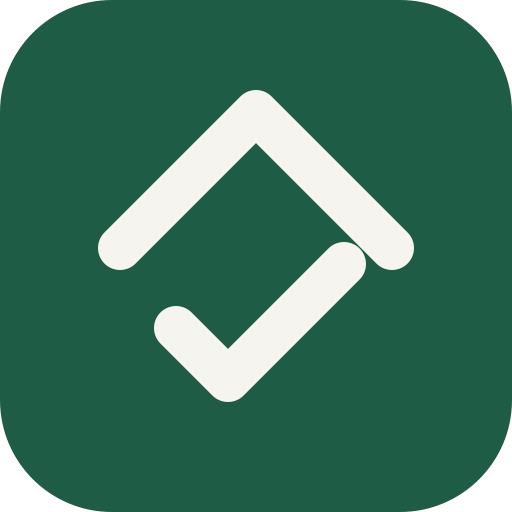
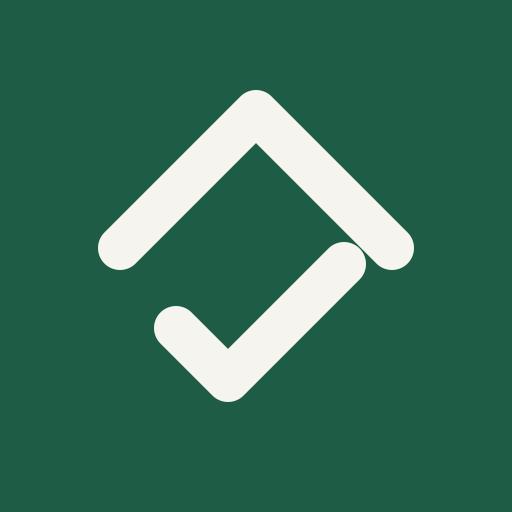
fix: contour des champs lisible, couleurs oubliées, spec des icônes étendue aux helpers, icône PNG pleine

diff --git a/app/assets/stylesheets/application.tailwind.css b/app/assets/stylesheets/application.tailwind.css
@@ -1,12 +1,18 @@
 @import "tailwindcss";
 
+/* Classes come from app/ only: docs/ and .reviews/ hold mockups and reports with old colors. */
+@source not "../../../docs";
+@source not "../../../.reviews";
+
 /* "Carnet de maison" palette (docs/ux/revue-ux.md, Identité): classes such as bg-paper, text-ink, bg-action.
-   One action color (green); domain colors only for small marks and icons; brick red only for what must not be missed. */
+   One action color (green); domain colors only for small marks and icons; brick red only for what must not
+   be missed. `line` separates; `field` outlines what can be filled or chosen (3:1 contrast, WCAG 1.4.11). */
 @theme {
   --color-paper: #f6f4ef;
   --color-surface: #ffffff;
   --color-subtle: #edeae2;
   --color-line: #e4e0d6;
+  --color-field: #8a8578;
   --color-ink: #1d2521;
   --color-muted: #5f665f;
   --color-action: #1f5c46;

diff --git a/spec/components/icon_component_spec.rb b/spec/components/icon_component_spec.rb
@@ -22,11 +22,15 @@ RSpec.describe IconComponent, type: :component do
     expect { described_class.new(:unicorn) }.to raise_error(ArgumentError, /Unknown icon :unicorn/)
   end
 
-  it "uses only icons that exist" do
-    used = Rails.root.glob("app/{views,components}/**/*.{erb,rb}").flat_map do |file|
-      File.read(file).scan(/IconComponent\.new\(:([a-z_-]+)|icon\(:([a-z_-]+)/).flatten.compact
+  it "uses only icons that exist, in the views and in the icon tables of the helpers" do
+    used = Rails.root.glob("app/{views,components,helpers}/**/*.{erb,rb}").flat_map do |file|
+      # icon(:name), heading_with_icon(:name, …) and icon(condition ? :one : :other)
+      call = /(?:IconComponent\.new|\bicon|heading_with_icon)\((?:[^,()]*\? )?:([a-z_]+)(?: : :([a-z_]+))?/
+      File.read(file).scan(call).flatten.compact
     end
+    used += ApplicationHelper::EXPOSURE_ICONS.values + ApplicationHelper::HEALTH_ICONS.values.map(&:first)
 
-    expect(used.map { |name| name.tr("_", "-") }.uniq - described_class::SHAPES.keys).to be_empty
+    expect(used.map { |name| name.to_s.tr("_", "-") }.uniq - described_class::SHAPES.keys).to be_empty
+    expect(used.map(&:to_s)).to include("droplet", "check", "triangle_alert")
   end
 end

diff --git a/spec/system/house_spec.rb b/spec/system/house_spec.rb
@@ -25,20 +25,20 @@ RSpec.describe "My house", type: :system do
     click_on "Ajouter"
 
     expect(page).to have_content("Emplacement « Terrasse » ajouté.")
-    expect(page).to have_content("Mi-ombre · abrité du vent")
+    expect(page).to have_content("Mi-ombre · abrité du vent", normalize_ws: true)
 
     lemon = create(:plant, household: Household.sole, location: Location.find_by!(name: "Terrasse"), name: "Citronnier")
     refresh
     click_on "Supprimer l'emplacement « Terrasse »"
     within("dialog", text: "Sa plante restera, sans emplacement.") { click_on "Revenir" }
     expect(page).to have_no_css("dialog[open]")
-    expect(page).to have_content("Mi-ombre · abrité du vent")
+    expect(page).to have_content("Mi-ombre · abrité du vent", normalize_ws: true)
 
     click_on "Supprimer l'emplacement « Terrasse »"
     within("dialog", text: "Supprimer l'emplacement « Terrasse » ?") { click_on "Supprimer" }
 
     expect(page).to have_content("Emplacement « Terrasse » supprimé.")
-    expect(page).to have_no_content("Mi-ombre · abrité du vent")
+    expect(page).to have_no_content("Mi-ombre · abrité du vent", normalize_ws: true)
     expect(lemon.reload.location).to be_nil
   end
 end

diff --git a/app/helpers/application_helper.rb b/app/helpers/application_helper.rb
@@ -30,7 +30,7 @@ module ApplicationHelper
   # "← …" link at the top of a page, for the browser only: in the Android app, the native top bar and the system
   # back already go back, and a web link would push a new screen instead of going back.
   def back_link_to(text, url)
-    link_to(text, url, class: "text-sm text-stone-500 underline") unless hotwire_native_app?
+    link_to(text, url, class: "text-sm text-muted underline") unless hotwire_native_app?
   end
 
   # Form data for a confirmed action: the message, the label of the confirm button (the action itself, not

diff --git a/config/environments/development.rb b/config/environments/development.rb
@@ -1,6 +1,9 @@
 require "active_support/core_ext/integer/time"
 
 Rails.application.configure do
+  # IconComponent reads app/assets/images/icons when it loads: reload it when an icon file is added.
+  config.watchable_dirs["app/assets/images/icons"] = [ :svg ]
+
   # Settings specified here will take precedence over those in config/application.rb.
 
   # Make code changes take effect immediately without server restart.

diff --git a/docs/decisions/0013-identite-visuelle-et-icones.md b/docs/decisions/0013-identite-visuelle-et-icones.md
@@ -12,7 +12,7 @@ a validé la palette « carnet de maison » et le logo (`docs/maquettes/v2/logo.
 ## Décision
 
 - **Palette en jetons** dans `app/assets/stylesheets/application.tailwind.css` (`@theme` de Tailwind 4) : `paper`,
-  `surface`, `subtle`, `line`, `ink`, `muted`, `action`, `alert`, `warn` et une couleur par domaine. Les vues utilisent
+  `surface`, `subtle`, `line` (séparateurs), `field` (contour des champs et des choix, contraste 3:1), `ink`, `muted`, `action`, `alert`, `warn` et une couleur par domaine. Les vues utilisent
   ces classes (`bg-paper`, `text-ink`, `bg-action`…), plus les couleurs génériques (`stone`, `emerald`, `sky`, `red`).
   Une seule couleur d'action, le vert sapin ; la brique seulement pour ce qui ne doit pas être raté.
 - **Icônes Lucide** (licence ISC) au trait, **copiées** dans `app/assets/images/icons/` depuis `lucide-static` (version
